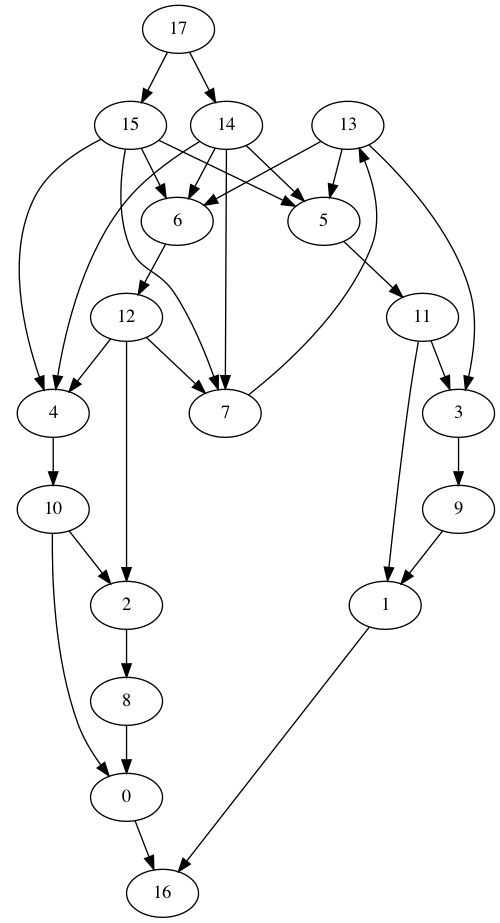
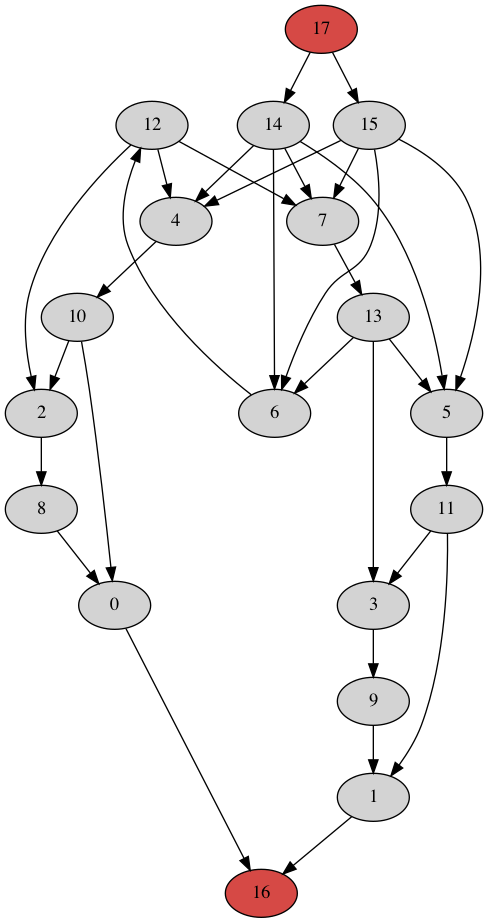
Added coloring

diff --git a/main.py b/main.py
@@ -2,57 +2,76 @@ from DS import DS
 from generateDisks import generateDisks
 from visualize import visualize
 from residualgraph import ResidualGraph
+import networkx as nx
+def run1():
+    gd = generateDisks()
+    vis = visualize()
+    unitDistance = 2
+    s = 1
+    t = 12
+    belts = (s, t)
+    k = 2
+    # generate optimal k-coverage disk set
+    disks = gd.generateUnitDisks(k, belts, unitDistance)
+    # generate belt rectangles
+    beltRectangles = gd.getBeltRegions(k, belts, unitDistance)
 
-gd = generateDisks()
-vis = visualize()
-unitDistance = 2
-s = 1
-t = 12
-belts = (s, t)
-k = 2
-# generate optimal k-coverage disk set
-disks = gd.generateUnitDisks(k, belts, unitDistance)
+    # visualize circles
+    vis.visualizeCircles(disks, beltRectangles, unitDistance)
 
+    # create residual graph
+    r1 = ResidualGraph(disks, s, t, unitDistance * 2)
+    # starting vertex
+    start = r1.getUindex()
+    # ending vertex
+    end = r1.getVindex()
+    print(r1.getUindexofG, r1.getVindexOfG)
+    print(list(nx.node_disjoint_paths(r1.G, r1.getUindexofG, r1.getVindexOfG)))
+    # visualize G graph
+    vis.visualizeGraph(r1.G, list(nx.node_disjoint_paths(r1.G, r1.getUindexofG, r1.getVindexOfG)), r1.getUindexofG, r1.getVindexOfG)
+
+    # visualize G' graph
+    vis.visualizeGraph(r1.Gp, r1.disjoint_paths, start, end)
+
+    # retrieve residual graph
+    r_Graph = r1.getResidualGraph()
+
+    # visualize residual graph
+    vis.visualizeGraph(r_Graph, [], start, end)
+
+    
+
+run1()
 # generate d random unit disks
 # d = 20
 # disks = gd.generateRandomUnitDisks(d, belts, unitDistance)
 
-# generate belt rectangles
-beltRectangles = gd.getBeltRegions(k, belts, unitDistance)
 
-# visualize circles
-vis.visualizeCircles(disks, beltRectangles, unitDistance)
 
-# create residual graph
-r1 = ResidualGraph(disks, s, t, unitDistance * 2)
 
-# retrieve residual graph
-r_Graph = r1.getResidualGraph()
 
-# visualize residual graph
-# vis.visualizeGraph(r_Graph)
 
 # vis.visualizeGraph(r1.G)
-print(list(r1.G.successors(8)))
+# print(list(r1.G.successors(8)))
 
-ds = DS(r1.G, [r1.getUindexofG(), 9])
-print(ds.IN)
-print(ds.OUT)
+# ds = DS(r1.G, [r1.getUindexofG(), 9])
+# print(ds.IN)
+# print(ds.OUT)
 
-print(ds.query(4))
-print(ds.query(4))
+# print(ds.query(4))
+# print(ds.query(4))
 
-print(ds.IN)
-print(ds.OUT)
+# print(ds.IN)
+# print(ds.OUT)
 
-ds.remove(3)
+# ds.remove(3)
 
-print(ds.IN)
-print(ds.OUT)
+# print(ds.IN)
+# print(ds.OUT)
 
-print(ds.query(1))
+# print(ds.query(1))
 
-print(r1.disjoint_paths)
-p, v = r1.preprocessEdgedisjointpaths(r1.disjoint_paths, r1.getUindex(), r1.getVindex())
-print(p)
-print(v)
+# print(r1.disjoint_paths)
+# p, v = r1.preprocessEdgedisjointpaths(r1.disjoint_paths, r1.getUindex(), r1.getVindex())
+# print(p)
+# print(v)

diff --git a/visualize.py b/visualize.py
@@ -19,8 +19,24 @@ class visualize:
         ax.margins(0.5, 0.5)
         plt.show()
 
-    def visualizeGraph(self, residualGraph):
+    def visualizeGraph(self, residualGraph, vertex_disjoint_paths, start, end):
         A = to_agraph(residualGraph)
+        A.node_attr['style']='filled'
+
+        # iterate over vertex disjoint paths
+        for path in vertex_disjoint_paths:
+                i = 0
+                while i < len(path) - 1:
+                    n = A.get_node(path[i])
+                    n.attr['fillcolor']="#6445d6"
+                    n = A.get_edge(path[i], path[i + 1])
+                    n.attr['fillcolor']="#6445d6"
+                    i = i + 1
+                # fill starting and ending node
+        n = A.get_node(start)
+        n.attr['fillcolor']="#d64945"
+        n = A.get_node(end)
+        n.attr['fillcolor']="#d64945"
         A.layout('dot')
         A.draw('graph.png')
         img = mpimg.imread('graph.png')
